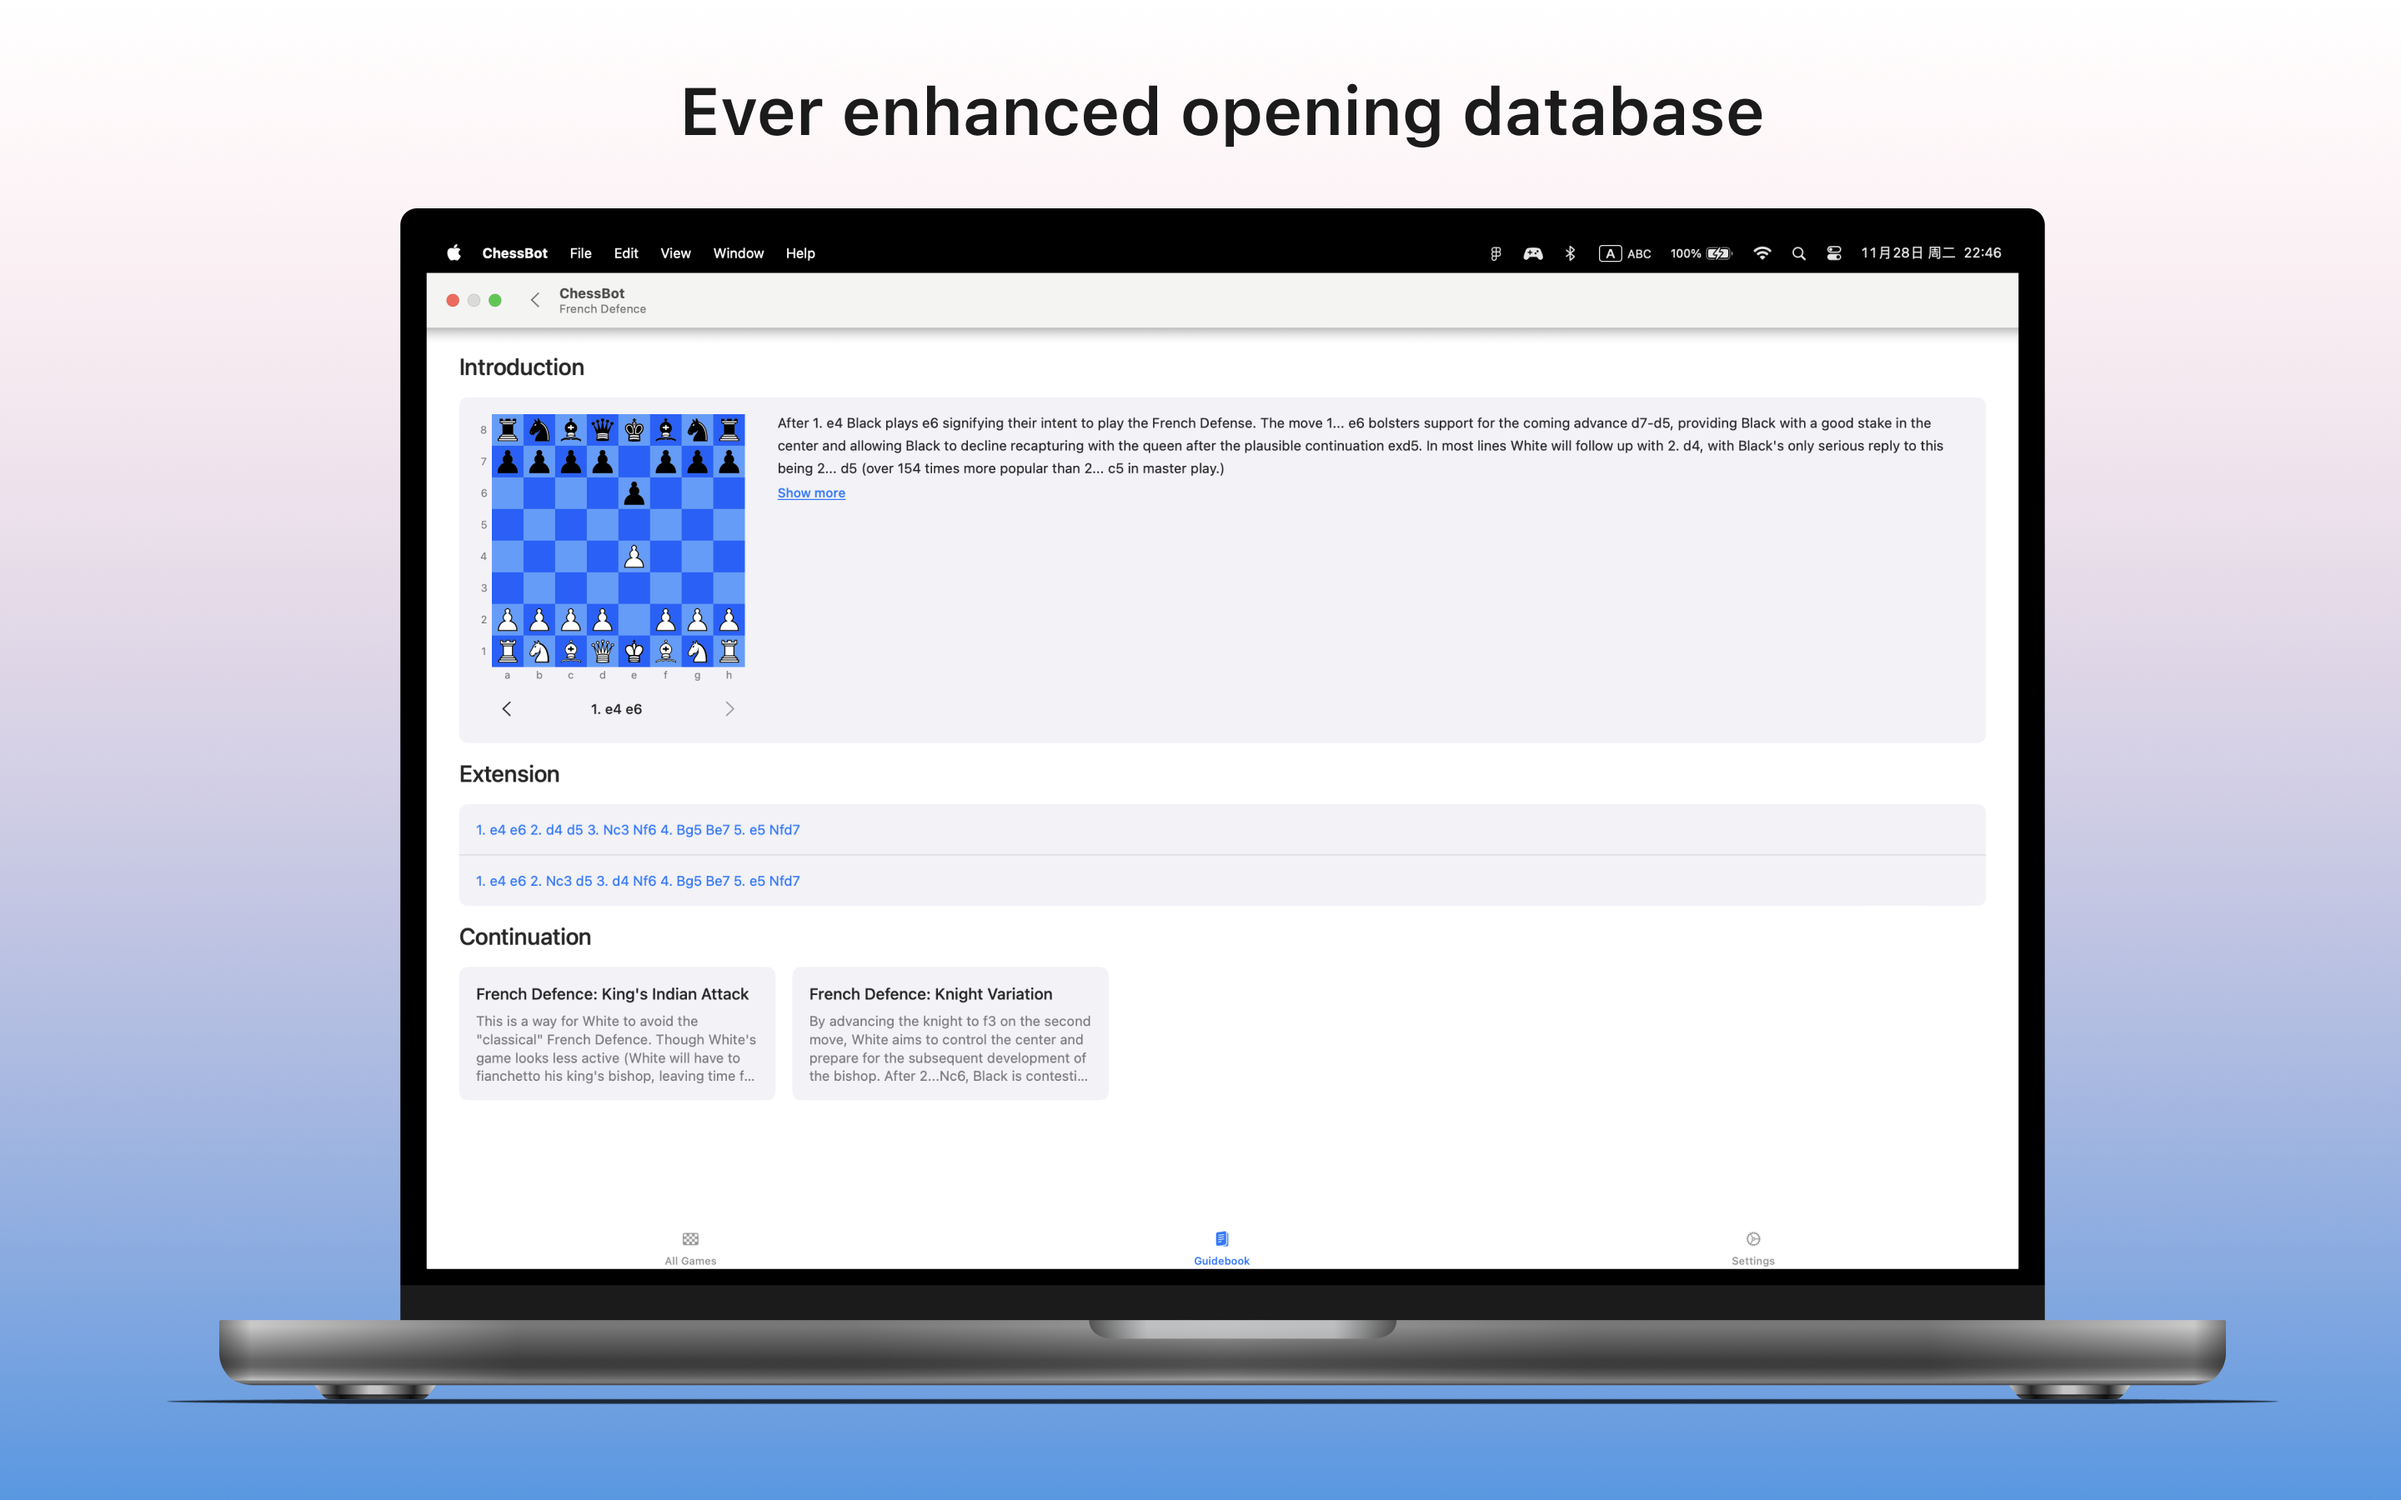
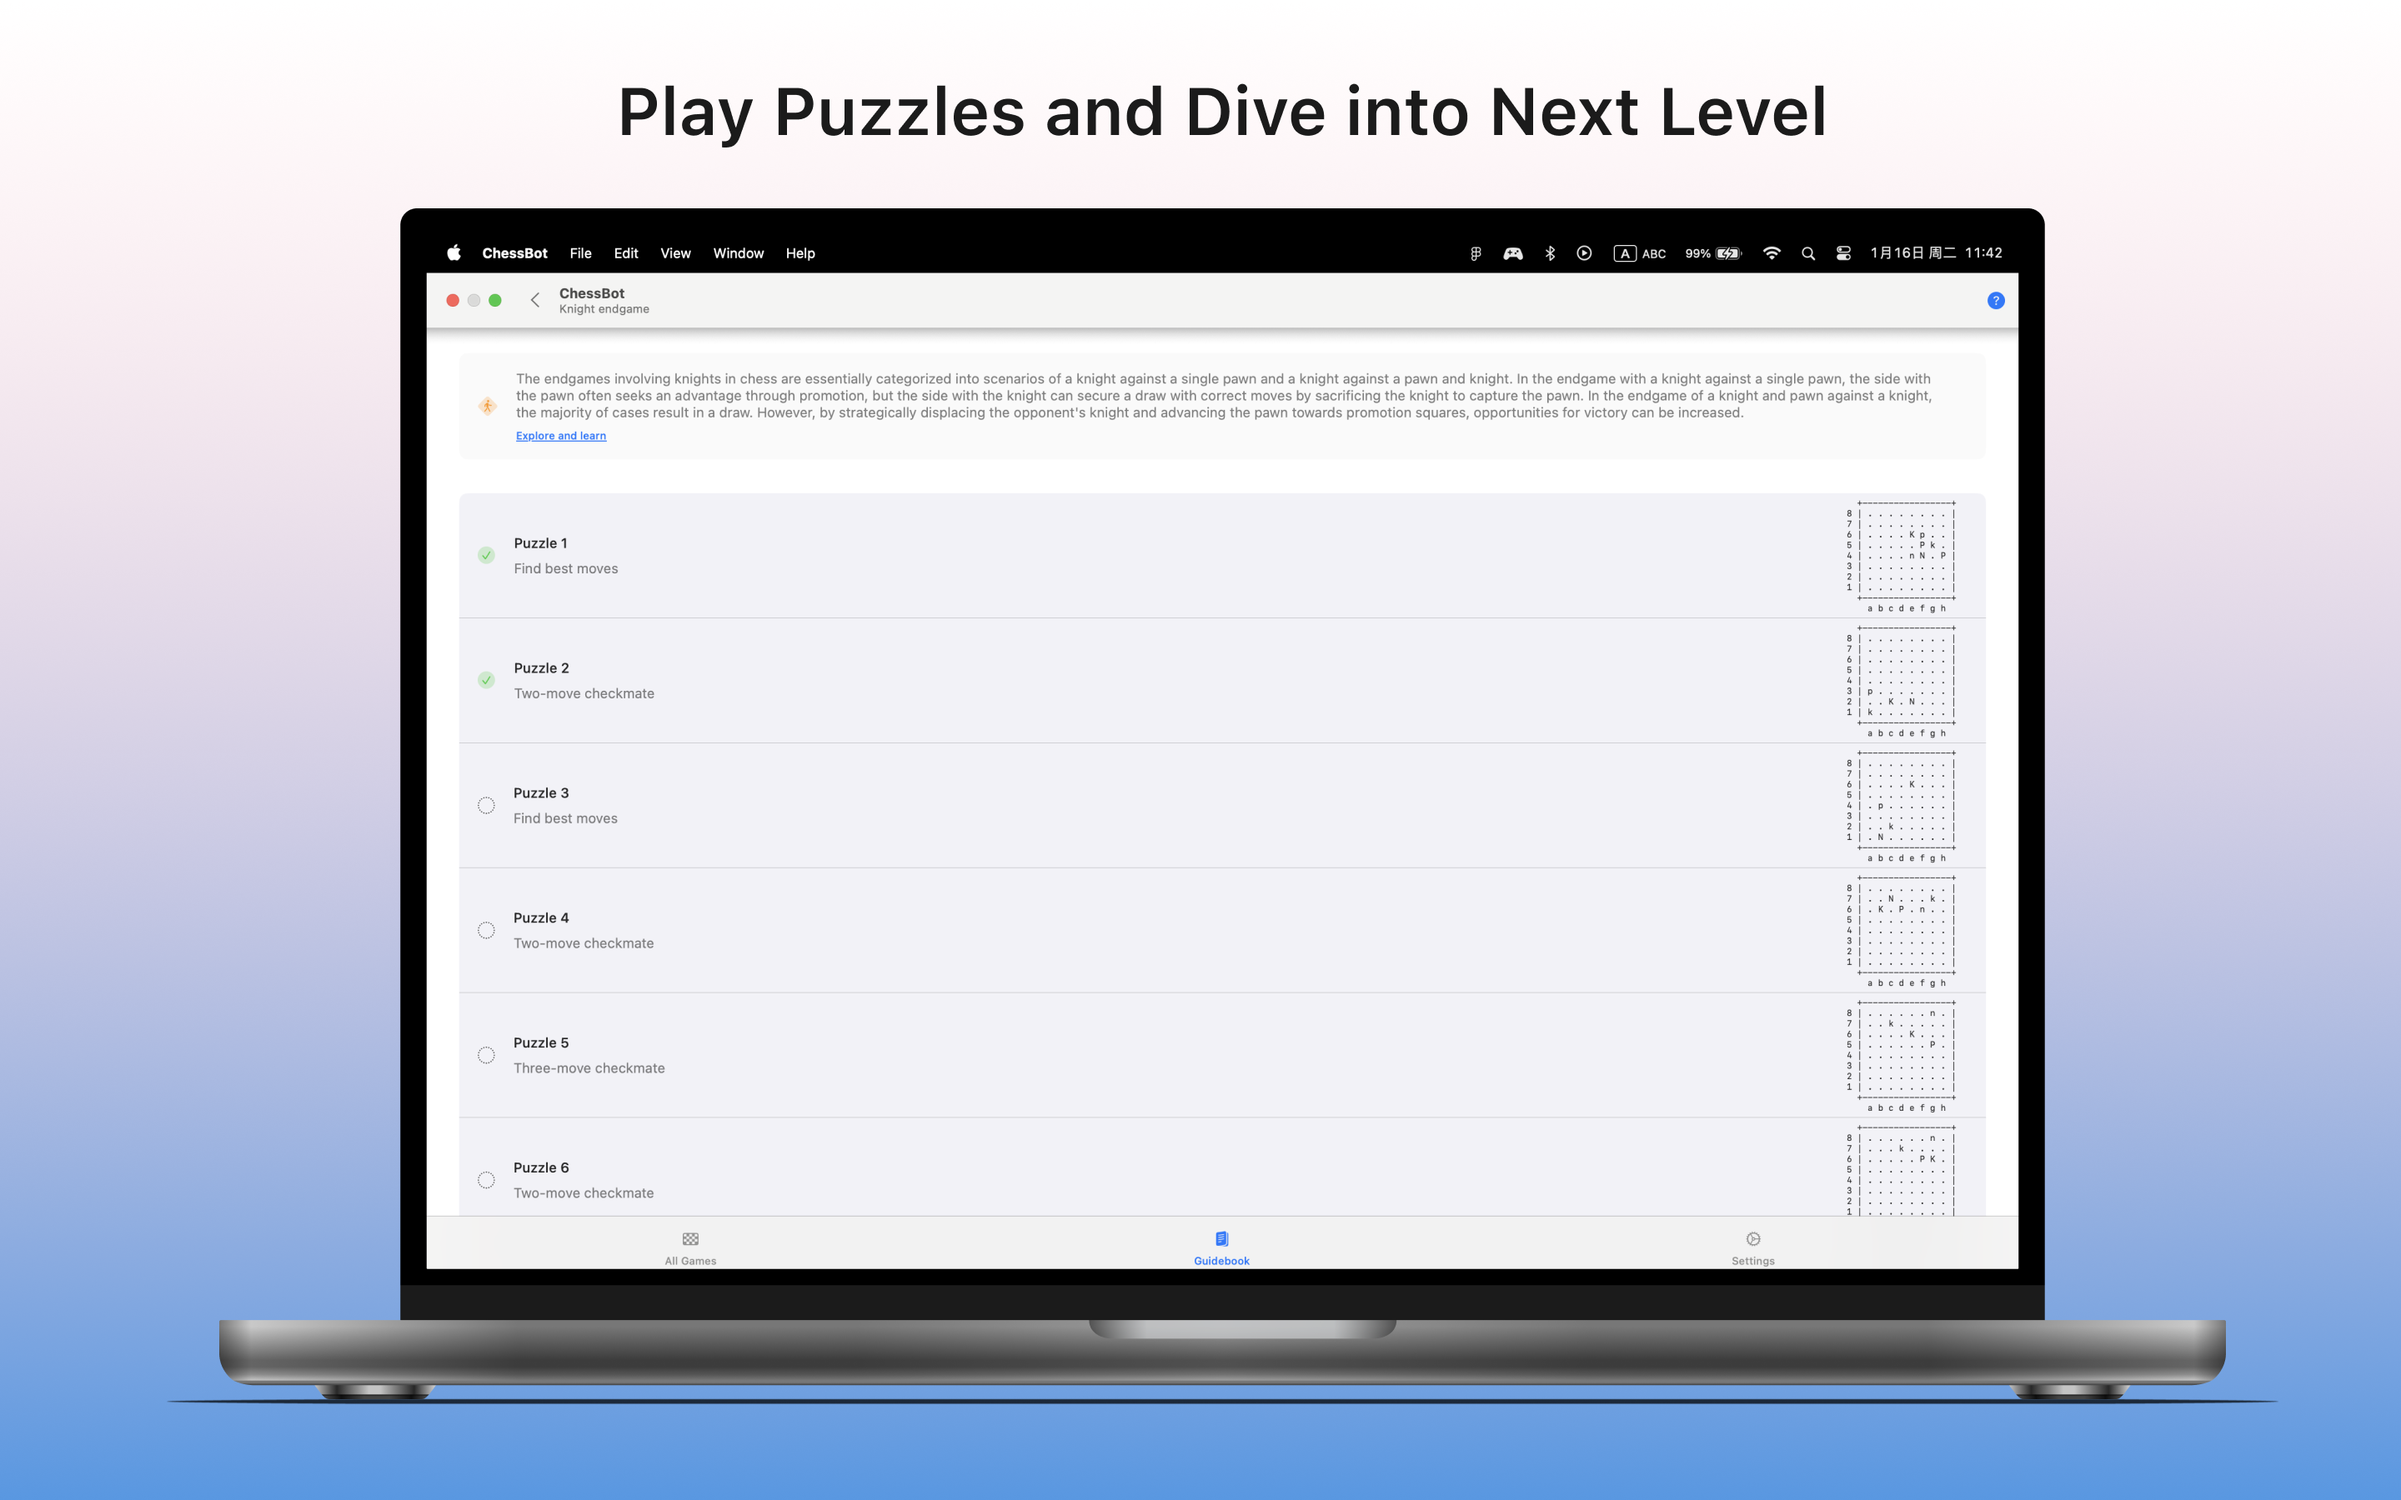
Update screenshots and release info for 7.1

diff --git a/description.md b/description.md
@@ -1,17 +1,20 @@
 ChessBot is an elegant chess app with powerful features.
 
-- Basic move operations and outcome detection
-- A strong chess engine that generates moves suggestion
-- Human v.s. human & human v.s. computer modes
-- PGN files importing and exporting
-- PGN files preview
-- Chess game saving and sharing
-- Encyclopedia of chess openings
+- A strong chess engine providing move suggestions
+- Play in human v.s. human, or human v.s. computer with scalable ELO
+- Chess Gallery: manages all your games, includes saving, sharing, deleting, renaming, etc
+- PGN files importing, exporting, and previewing
+- Board analyzing: your game statistics in all traits
+- Guidebook: your game skills start here
+  - Chess openings: with interactive board, guidance and extension of openings
+  - Chess puzzles: play some challenging endgames in your spare time
+  - Chess lessons: learn how to play endgames and improve your techniques
+- Play with friends: play chess with friends through iMessage App
 
 ChessBot is also available on iOS App Store and Apple TV App Store, check it out!
 
 More features will be added in the future. Enjoy it!
 Please let us know if you have any suggestions or complaints.
 
-Web: http://artlvr.com/chessbotapp/
+Website: http://artlvr.com/chessbotapp/
 E-mail: chessbotapp@outlook.com

diff --git a/updateInfo.md b/updateInfo.md
@@ -1,4 +1,6 @@
-- Introducing the Guidebook: Explore a plethora of chess openings to sharpen your skills.
-- Fine-tuning localizations, including Traditional Chinese and Russian.
-- Improving the overall user interface design for a more cohesive experience.
-- Bug fixes and enhanced stability.
+- Introducing chess puzzles, we have prepared Knight Endgame challenges in the first release
+- Introducing lessons, you can learn skills on how to play the chess endgame
+- We redesigned the settings page for simplicity and convenience
+- Added sharing for chess openings, with a beautifully represented chess board and translated materials
+- Fixed a few bugs, including the wrong result prompt when a chess game ends
+- Updated terms of use and privacy policy
